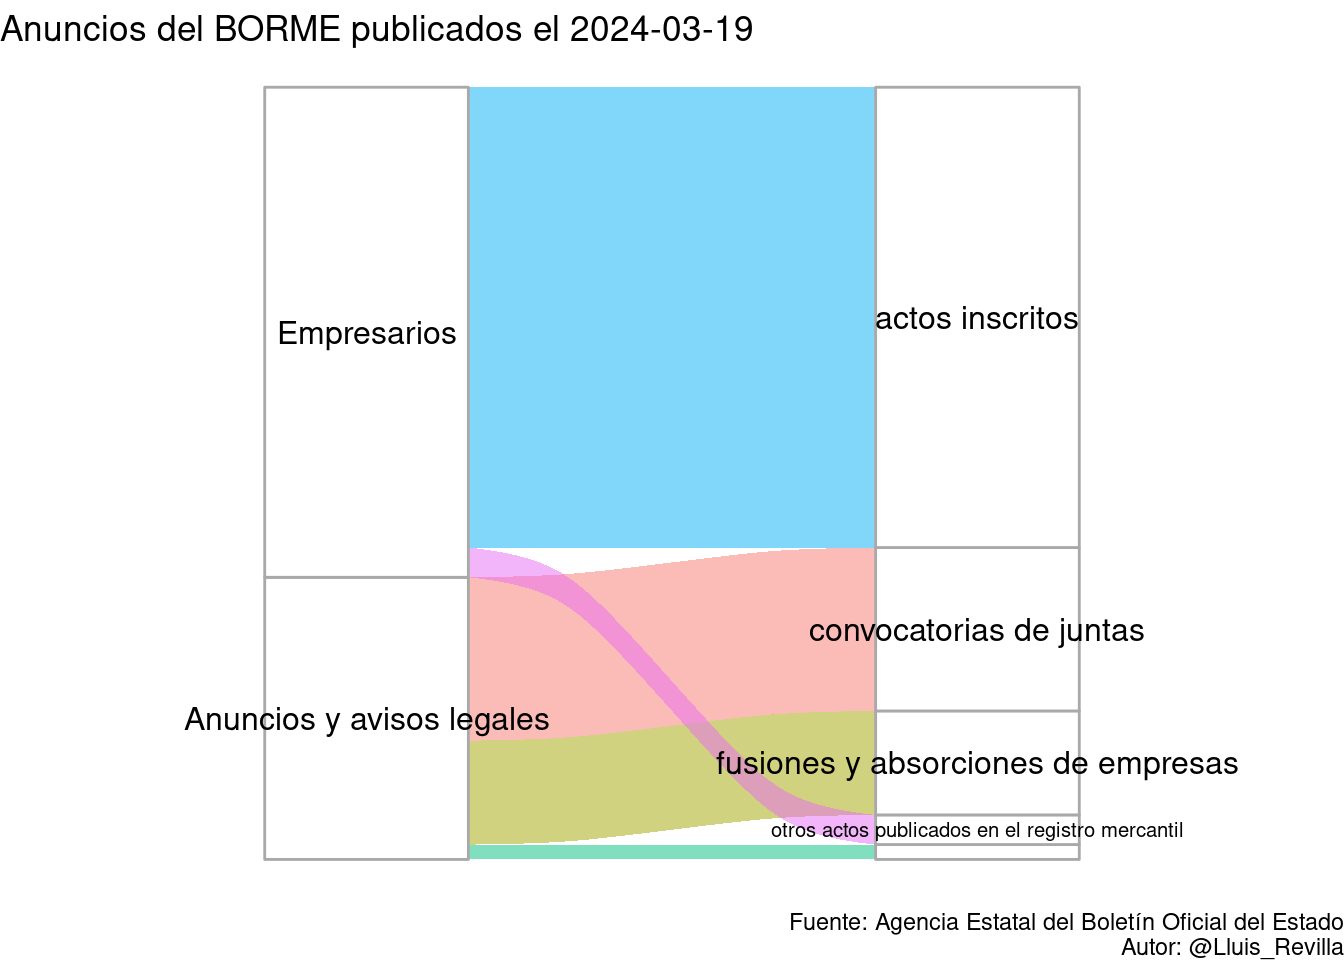
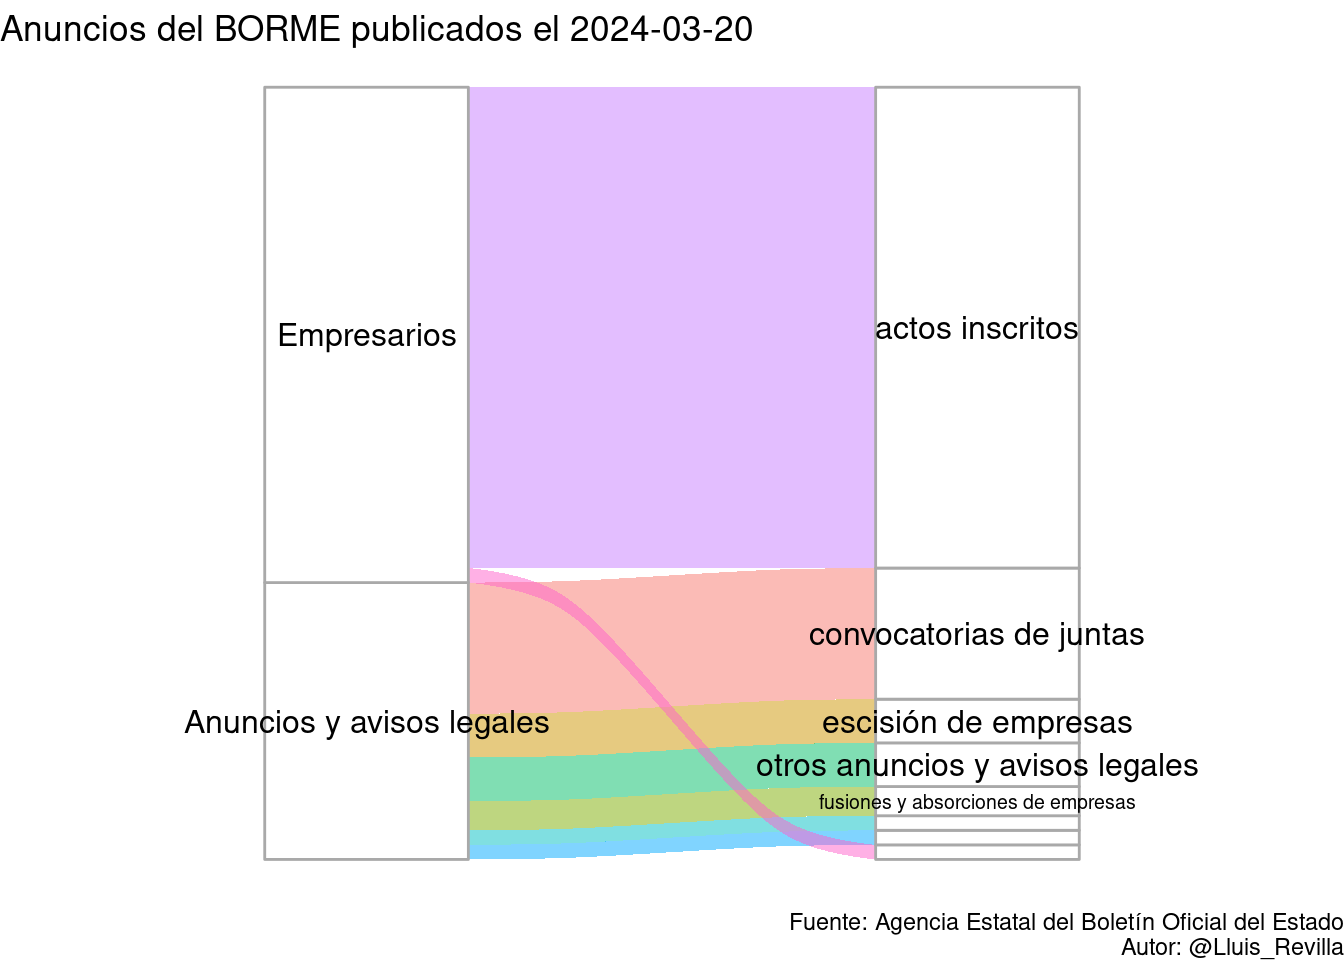
Update BORME

diff --git a/docs/last_BORME.html b/docs/last_BORME.html
@@ -379,14 +379,14 @@ $(document).ready(function () {
 
 <div id="resumen-gráfico" class="section level1">
 <h1>Resumen gráfico</h1>
-<p>Esta página web contiene el último sumario del BORME publicado el 2024-03-19 con 52 publicaciones.</p>
+<p>Esta página web contiene el último sumario del BORME publicado el 2024-03-20 con 53 publicaciones.</p>
 <p><img src="last_BORME_files/figure-html/graphics-1.png" width="672" /></p>
 </div>
 <div id="tabla-de-publicaciones" class="section level1">
 <h1>Tabla de publicaciones</h1>
 <p>Aquí está la tabla completa con enlaces a las publicaciones:</p>
-<div class="datatables html-widget html-fill-item-overflow-hidden html-fill-item" id="htmlwidget-3b1ca8893afc9ffee0ff" style="width:100%;height:auto;"></div>
-<script type="application/json" data-for="htmlwidget-3b1ca8893afc9ffee0ff">{"x":{"filter":"top","vertical":false,"filterHTML":"<tr>\n  <td><\/td>\n  <td data-type=\"character\" style=\"vertical-align: top;\">\n    <div class=\"form-group has-feedback\" style=\"margin-bottom: auto;\">\n      <input type=\"search\" placeholder=\"All\" class=\"form-control\" style=\"width: 100%;\"/>\n      <span class=\"glyphicon glyphicon-remove-circle form-control-feedback\"><\/span>\n    <\/div>\n  <\/td>\n  <td data-type=\"character\" style=\"vertical-align: top;\">\n    <div class=\"form-group has-feedback\" style=\"margin-bottom: auto;\">\n      <input type=\"search\" placeholder=\"All\" class=\"form-control\" style=\"width: 100%;\"/>\n      <span class=\"glyphicon glyphicon-remove-circle form-control-feedback\"><\/span>\n    <\/div>\n  <\/td>\n  <td data-type=\"character\" style=\"vertical-align: top;\">\n    <div class=\"form-group has-feedback\" style=\"margin-bottom: auto;\">\n      <input type=\"search\" placeholder=\"All\" class=\"form-control\" style=\"width: 100%;\" disabled=\"\"/>\n      <span class=\"glyphicon glyphicon-remove-circle form-control-feedback\"><\/span>\n    <\/div>\n  <\/td>\n  <td data-type=\"character\" style=\"vertical-align: top;\">\n    <div class=\"form-group has-feedback\" style=\"margin-bottom: auto;\">\n      <input type=\"search\" placeholder=\"All\" class=\"form-control\" style=\"width: 100%;\"/>\n      <span class=\"glyphicon glyphicon-remove-circle form-control-feedback\"><\/span>\n    <\/div>\n  <\/td>\n<\/tr>","data":[["1","2","3","4","5","6","7","8","9","10","11","12","13","14","15","16","17","18","19","20","21","22","23","24","25","26","27","28","29","30","31","32","33","34","35","36","37","38","39","40","41","42","43","44","45","46","47","48","49","50","51","52"],["SECCIÓN PRIMERA. Empresarios","SECCIÓN PRIMERA. Empresarios","SECCIÓN PRIMERA. Empresarios","SECCIÓN PRIMERA. Empresarios","SECCIÓN PRIMERA. Empresarios","SECCIÓN PRIMERA. Empresarios","SECCIÓN PRIMERA. Empresarios","SECCIÓN PRIMERA. Empresarios","SECCIÓN PRIMERA. Empresarios","SECCIÓN PRIMERA. Empresarios","SECCIÓN PRIMERA. Empresarios","SECCIÓN PRIMERA. Empresarios","SECCIÓN PRIMERA. Empresarios","SECCIÓN PRIMERA. Empresarios","SECCIÓN PRIMERA. Empresarios","SECCIÓN PRIMERA. Empresarios","SECCIÓN PRIMERA. Empresarios","SECCIÓN PRIMERA. Empresarios","SECCIÓN PRIMERA. Empresarios","SECCIÓN PRIMERA. Empresarios","SECCIÓN PRIMERA. Empresarios","SECCIÓN PRIMERA. Empresarios","SECCIÓN PRIMERA. Empresarios","SECCIÓN PRIMERA. Empresarios","SECCIÓN PRIMERA. Empresarios","SECCIÓN PRIMERA. Empresarios","SECCIÓN PRIMERA. Empresarios","SECCIÓN PRIMERA. Empresarios","SECCIÓN PRIMERA. Empresarios","SECCIÓN PRIMERA. Empresarios","SECCIÓN PRIMERA. Empresarios","SECCIÓN PRIMERA. Empresarios","SECCIÓN PRIMERA. Empresarios","SECCIÓN SEGUNDA. Anuncios y avisos legales","SECCIÓN SEGUNDA. Anuncios y avisos legales","SECCIÓN SEGUNDA. Anuncios y avisos legales","SECCIÓN SEGUNDA. Anuncios y avisos legales","SECCIÓN SEGUNDA. Anuncios y avisos legales","SECCIÓN SEGUNDA. Anuncios y avisos legales","SECCIÓN SEGUNDA. Anuncios y avisos legales","SECCIÓN SEGUNDA. Anuncios y avisos legales","SECCIÓN SEGUNDA. Anuncios y avisos legales","SECCIÓN SEGUNDA. Anuncios y avisos legales","SECCIÓN SEGUNDA. Anuncios y avisos legales","SECCIÓN SEGUNDA. Anuncios y avisos legales","SECCIÓN SEGUNDA. Anuncios y avisos legales","SECCIÓN SEGUNDA. Anuncios y avisos legales","SECCIÓN SEGUNDA. Anuncios y avisos legales","SECCIÓN SEGUNDA. Anuncios y avisos legales","SECCIÓN SEGUNDA. Anuncios y avisos legales","SECCIÓN SEGUNDA. Anuncios y avisos legales","SECCIÓN SEGUNDA. Anuncios y avisos legales"],["Actos inscritos","Actos inscritos","Actos inscritos","Actos inscritos","Actos inscritos","Actos inscritos","Actos inscritos","Actos inscritos","Actos inscritos","Actos inscritos","Actos inscritos","Actos inscritos","Actos inscritos","Actos inscritos","Actos inscritos","Actos inscritos","Actos inscritos","Actos inscritos","Actos inscritos","Actos inscritos","Actos inscritos","Actos inscritos","Actos inscritos","Actos inscritos","Actos inscritos","Actos inscritos","Actos inscritos","Actos inscritos","Actos inscritos","Actos inscritos","Actos inscritos","Otros actos publicados en el Registro Mercantil","Otros actos publicados en el Registro Mercantil","CONVOCATORIAS DE JUNTAS","CONVOCATORIAS DE JUNTAS","CONVOCATORIAS DE JUNTAS","CONVOCATORIAS DE JUNTAS","CONVOCATORIAS DE JUNTAS","CONVOCATORIAS DE JUNTAS","CONVOCATORIAS DE JUNTAS","CONVOCATORIAS DE JUNTAS","CONVOCATORIAS DE JUNTAS","CONVOCATORIAS DE JUNTAS","CONVOCATORIAS DE JUNTAS","FUSIONES Y ABSORCIONES DE EMPRESAS","FUSIONES Y ABSORCIONES DE EMPRESAS","FUSIONES Y ABSORCIONES DE EMPRESAS","FUSIONES Y ABSORCIONES DE EMPRESAS","FUSIONES Y ABSORCIONES DE EMPRESAS","FUSIONES Y ABSORCIONES DE EMPRESAS","FUSIONES Y ABSORCIONES DE EMPRESAS","TRANSFORMACIÓN DE EMPRESAS"],[null,null,null,null,null,null,null,null,null,null,null,null,null,null,null,null,null,null,null,null,null,null,null,null,null,null,null,null,null,null,null,null,null,null,null,null,null,null,null,null,null,null,null,null,null,null,null,null,null,null,null,null],["BORME-A-2024-56-02","BORME-A-2024-56-03","BORME-A-2024-56-04","BORME-A-2024-56-06","BORME-A-2024-56-07","BORME-A-2024-56-08","BORME-A-2024-56-12","BORME-A-2024-56-14","BORME-A-2024-56-15","BORME-A-2024-56-18","BORME-A-2024-56-22","BORME-A-2024-56-24","BORME-A-2024-56-26","BORME-A-2024-56-28","BORME-A-2024-56-29","BORME-A-2024-56-30","BORME-A-2024-56-31","BORME-A-2024-56-33","BORME-A-2024-56-34","BORME-A-2024-56-35","BORME-A-2024-56-36","BORME-A-2024-56-38","BORME-A-2024-56-40","BORME-A-2024-56-41","BORME-A-2024-56-45","BORME-A-2024-56-46","BORME-A-2024-56-47","BORME-A-2024-56-48","BORME-A-2024-56-49","BORME-A-2024-56-50","BORME-A-2024-56-99","BORME-B-2024-56-04","BORME-B-2024-56-46","BORME-C-2024-881","BORME-C-2024-882","BORME-C-2024-883","BORME-C-2024-884","BORME-C-2024-885","BORME-C-2024-886","BORME-C-2024-887","BORME-C-2024-888","BORME-C-2024-889","BORME-C-2024-890","BORME-C-2024-891","BORME-C-2024-892","BORME-C-2024-893","BORME-C-2024-894","BORME-C-2024-895","BORME-C-2024-896","BORME-C-2024-897","BORME-C-2024-898","BORME-C-2024-899"]],"container":"<table class=\"display\">\n  <thead>\n    <tr>\n      <th> <\/th>\n      <th>Sección<\/th>\n      <th>Emisor<\/th>\n      <th>Texto<\/th>\n      <th>Link<\/th>\n    <\/tr>\n  <\/thead>\n<\/table>","options":{"pageLength":10,"autoWidth":true,"columnDefs":[{"orderable":false,"targets":0},{"name":" ","targets":0},{"name":"Sección","targets":1},{"name":"Emisor","targets":2},{"name":"Texto","targets":3},{"name":"Link","targets":4}],"order":[],"orderClasses":false,"orderCellsTop":true}},"evals":[],"jsHooks":[]}</script>
+<div class="datatables html-widget html-fill-item-overflow-hidden html-fill-item" id="htmlwidget-3c823faa60f8aa062bf6" style="width:100%;height:auto;"></div>
+<script type="application/json" data-for="htmlwidget-3c823faa60f8aa062bf6">{"x":{"filter":"top","vertical":false,"filterHTML":"<tr>\n  <td><\/td>\n  <td data-type=\"character\" style=\"vertical-align: top;\">\n    <div class=\"form-group has-feedback\" style=\"margin-bottom: auto;\">\n      <input type=\"search\" placeholder=\"All\" class=\"form-control\" style=\"width: 100%;\"/>\n      <span class=\"glyphicon glyphicon-remove-circle form-control-feedback\"><\/span>\n    <\/div>\n  <\/td>\n  <td data-type=\"character\" style=\"vertical-align: top;\">\n    <div class=\"form-group has-feedback\" style=\"margin-bottom: auto;\">\n      <input type=\"search\" placeholder=\"All\" class=\"form-control\" style=\"width: 100%;\"/>\n      <span class=\"glyphicon glyphicon-remove-circle form-control-feedback\"><\/span>\n    <\/div>\n  <\/td>\n  <td data-type=\"character\" style=\"vertical-align: top;\">\n    <div class=\"form-group has-feedback\" style=\"margin-bottom: auto;\">\n      <input type=\"search\" placeholder=\"All\" class=\"form-control\" style=\"width: 100%;\" disabled=\"\"/>\n      <span class=\"glyphicon glyphicon-remove-circle form-control-feedback\"><\/span>\n    <\/div>\n  <\/td>\n  <td data-type=\"character\" style=\"vertical-align: top;\">\n    <div class=\"form-group has-feedback\" style=\"margin-bottom: auto;\">\n      <input type=\"search\" placeholder=\"All\" class=\"form-control\" style=\"width: 100%;\"/>\n      <span class=\"glyphicon glyphicon-remove-circle form-control-feedback\"><\/span>\n    <\/div>\n  <\/td>\n<\/tr>","data":[["1","2","3","4","5","6","7","8","9","10","11","12","13","14","15","16","17","18","19","20","21","22","23","24","25","26","27","28","29","30","31","32","33","34","35","36","37","38","39","40","41","42","43","44","45","46","47","48","49","50","51","52","53"],["SECCIÓN PRIMERA. Empresarios","SECCIÓN PRIMERA. Empresarios","SECCIÓN PRIMERA. Empresarios","SECCIÓN PRIMERA. Empresarios","SECCIÓN PRIMERA. Empresarios","SECCIÓN PRIMERA. Empresarios","SECCIÓN PRIMERA. Empresarios","SECCIÓN PRIMERA. Empresarios","SECCIÓN PRIMERA. Empresarios","SECCIÓN PRIMERA. Empresarios","SECCIÓN PRIMERA. Empresarios","SECCIÓN PRIMERA. Empresarios","SECCIÓN PRIMERA. Empresarios","SECCIÓN PRIMERA. Empresarios","SECCIÓN PRIMERA. Empresarios","SECCIÓN PRIMERA. Empresarios","SECCIÓN PRIMERA. Empresarios","SECCIÓN PRIMERA. Empresarios","SECCIÓN PRIMERA. Empresarios","SECCIÓN PRIMERA. Empresarios","SECCIÓN PRIMERA. Empresarios","SECCIÓN PRIMERA. Empresarios","SECCIÓN PRIMERA. Empresarios","SECCIÓN PRIMERA. Empresarios","SECCIÓN PRIMERA. Empresarios","SECCIÓN PRIMERA. Empresarios","SECCIÓN PRIMERA. Empresarios","SECCIÓN PRIMERA. Empresarios","SECCIÓN PRIMERA. Empresarios","SECCIÓN PRIMERA. Empresarios","SECCIÓN PRIMERA. Empresarios","SECCIÓN PRIMERA. Empresarios","SECCIÓN PRIMERA. Empresarios","SECCIÓN PRIMERA. Empresarios","SECCIÓN SEGUNDA. Anuncios y avisos legales","SECCIÓN SEGUNDA. Anuncios y avisos legales","SECCIÓN SEGUNDA. Anuncios y avisos legales","SECCIÓN SEGUNDA. Anuncios y avisos legales","SECCIÓN SEGUNDA. Anuncios y avisos legales","SECCIÓN SEGUNDA. Anuncios y avisos legales","SECCIÓN SEGUNDA. Anuncios y avisos legales","SECCIÓN SEGUNDA. Anuncios y avisos legales","SECCIÓN SEGUNDA. Anuncios y avisos legales","SECCIÓN SEGUNDA. Anuncios y avisos legales","SECCIÓN SEGUNDA. Anuncios y avisos legales","SECCIÓN SEGUNDA. Anuncios y avisos legales","SECCIÓN SEGUNDA. Anuncios y avisos legales","SECCIÓN SEGUNDA. Anuncios y avisos legales","SECCIÓN SEGUNDA. Anuncios y avisos legales","SECCIÓN SEGUNDA. Anuncios y avisos legales","SECCIÓN SEGUNDA. Anuncios y avisos legales","SECCIÓN SEGUNDA. Anuncios y avisos legales","SECCIÓN SEGUNDA. Anuncios y avisos legales"],["Actos inscritos","Actos inscritos","Actos inscritos","Actos inscritos","Actos inscritos","Actos inscritos","Actos inscritos","Actos inscritos","Actos inscritos","Actos inscritos","Actos inscritos","Actos inscritos","Actos inscritos","Actos inscritos","Actos inscritos","Actos inscritos","Actos inscritos","Actos inscritos","Actos inscritos","Actos inscritos","Actos inscritos","Actos inscritos","Actos inscritos","Actos inscritos","Actos inscritos","Actos inscritos","Actos inscritos","Actos inscritos","Actos inscritos","Actos inscritos","Actos inscritos","Actos inscritos","Actos inscritos","Otros actos publicados en el Registro Mercantil","CONVOCATORIAS DE JUNTAS","CONVOCATORIAS DE JUNTAS","CONVOCATORIAS DE JUNTAS","CONVOCATORIAS DE JUNTAS","CONVOCATORIAS DE JUNTAS","CONVOCATORIAS DE JUNTAS","CONVOCATORIAS DE JUNTAS","CONVOCATORIAS DE JUNTAS","CONVOCATORIAS DE JUNTAS","FUSIONES Y ABSORCIONES DE EMPRESAS","FUSIONES Y ABSORCIONES DE EMPRESAS","ESCISIÓN DE EMPRESAS","ESCISIÓN DE EMPRESAS","ESCISIÓN DE EMPRESAS","TRANSFORMACIÓN DE EMPRESAS","REDUCCIÓN DE CAPITAL","OTROS ANUNCIOS Y AVISOS LEGALES","OTROS ANUNCIOS Y AVISOS LEGALES","OTROS ANUNCIOS Y AVISOS LEGALES"],[null,null,null,null,null,null,null,null,null,null,null,null,null,null,null,null,null,null,null,null,null,null,null,null,null,null,null,null,null,null,null,null,null,null,null,null,null,null,null,null,null,null,null,null,null,null,null,null,null,null,null,null,null],["BORME-A-2024-57-03","BORME-A-2024-57-04","BORME-A-2024-57-06","BORME-A-2024-57-07","BORME-A-2024-57-08","BORME-A-2024-57-09","BORME-A-2024-57-11","BORME-A-2024-57-12","BORME-A-2024-57-14","BORME-A-2024-57-15","BORME-A-2024-57-16","BORME-A-2024-57-17","BORME-A-2024-57-18","BORME-A-2024-57-22","BORME-A-2024-57-24","BORME-A-2024-57-25","BORME-A-2024-57-26","BORME-A-2024-57-28","BORME-A-2024-57-29","BORME-A-2024-57-30","BORME-A-2024-57-31","BORME-A-2024-57-33","BORME-A-2024-57-35","BORME-A-2024-57-36","BORME-A-2024-57-40","BORME-A-2024-57-41","BORME-A-2024-57-43","BORME-A-2024-57-44","BORME-A-2024-57-45","BORME-A-2024-57-47","BORME-A-2024-57-50","BORME-A-2024-57-51","BORME-A-2024-57-99","BORME-B-2024-57-28","BORME-C-2024-900","BORME-C-2024-901","BORME-C-2024-902","BORME-C-2024-903","BORME-C-2024-904","BORME-C-2024-905","BORME-C-2024-906","BORME-C-2024-907","BORME-C-2024-908","BORME-C-2024-909","BORME-C-2024-910","BORME-C-2024-911","BORME-C-2024-912","BORME-C-2024-913","BORME-C-2024-914","BORME-C-2024-915","BORME-C-2024-916","BORME-C-2024-917","BORME-C-2024-918"]],"container":"<table class=\"display\">\n  <thead>\n    <tr>\n      <th> <\/th>\n      <th>Sección<\/th>\n      <th>Emisor<\/th>\n      <th>Texto<\/th>\n      <th>Link<\/th>\n    <\/tr>\n  <\/thead>\n<\/table>","options":{"pageLength":10,"autoWidth":true,"columnDefs":[{"orderable":false,"targets":0},{"name":" ","targets":0},{"name":"Sección","targets":1},{"name":"Emisor","targets":2},{"name":"Texto","targets":3},{"name":"Link","targets":4}],"order":[],"orderClasses":false,"orderCellsTop":true}},"evals":[],"jsHooks":[]}</script>
 </div>
 
 
